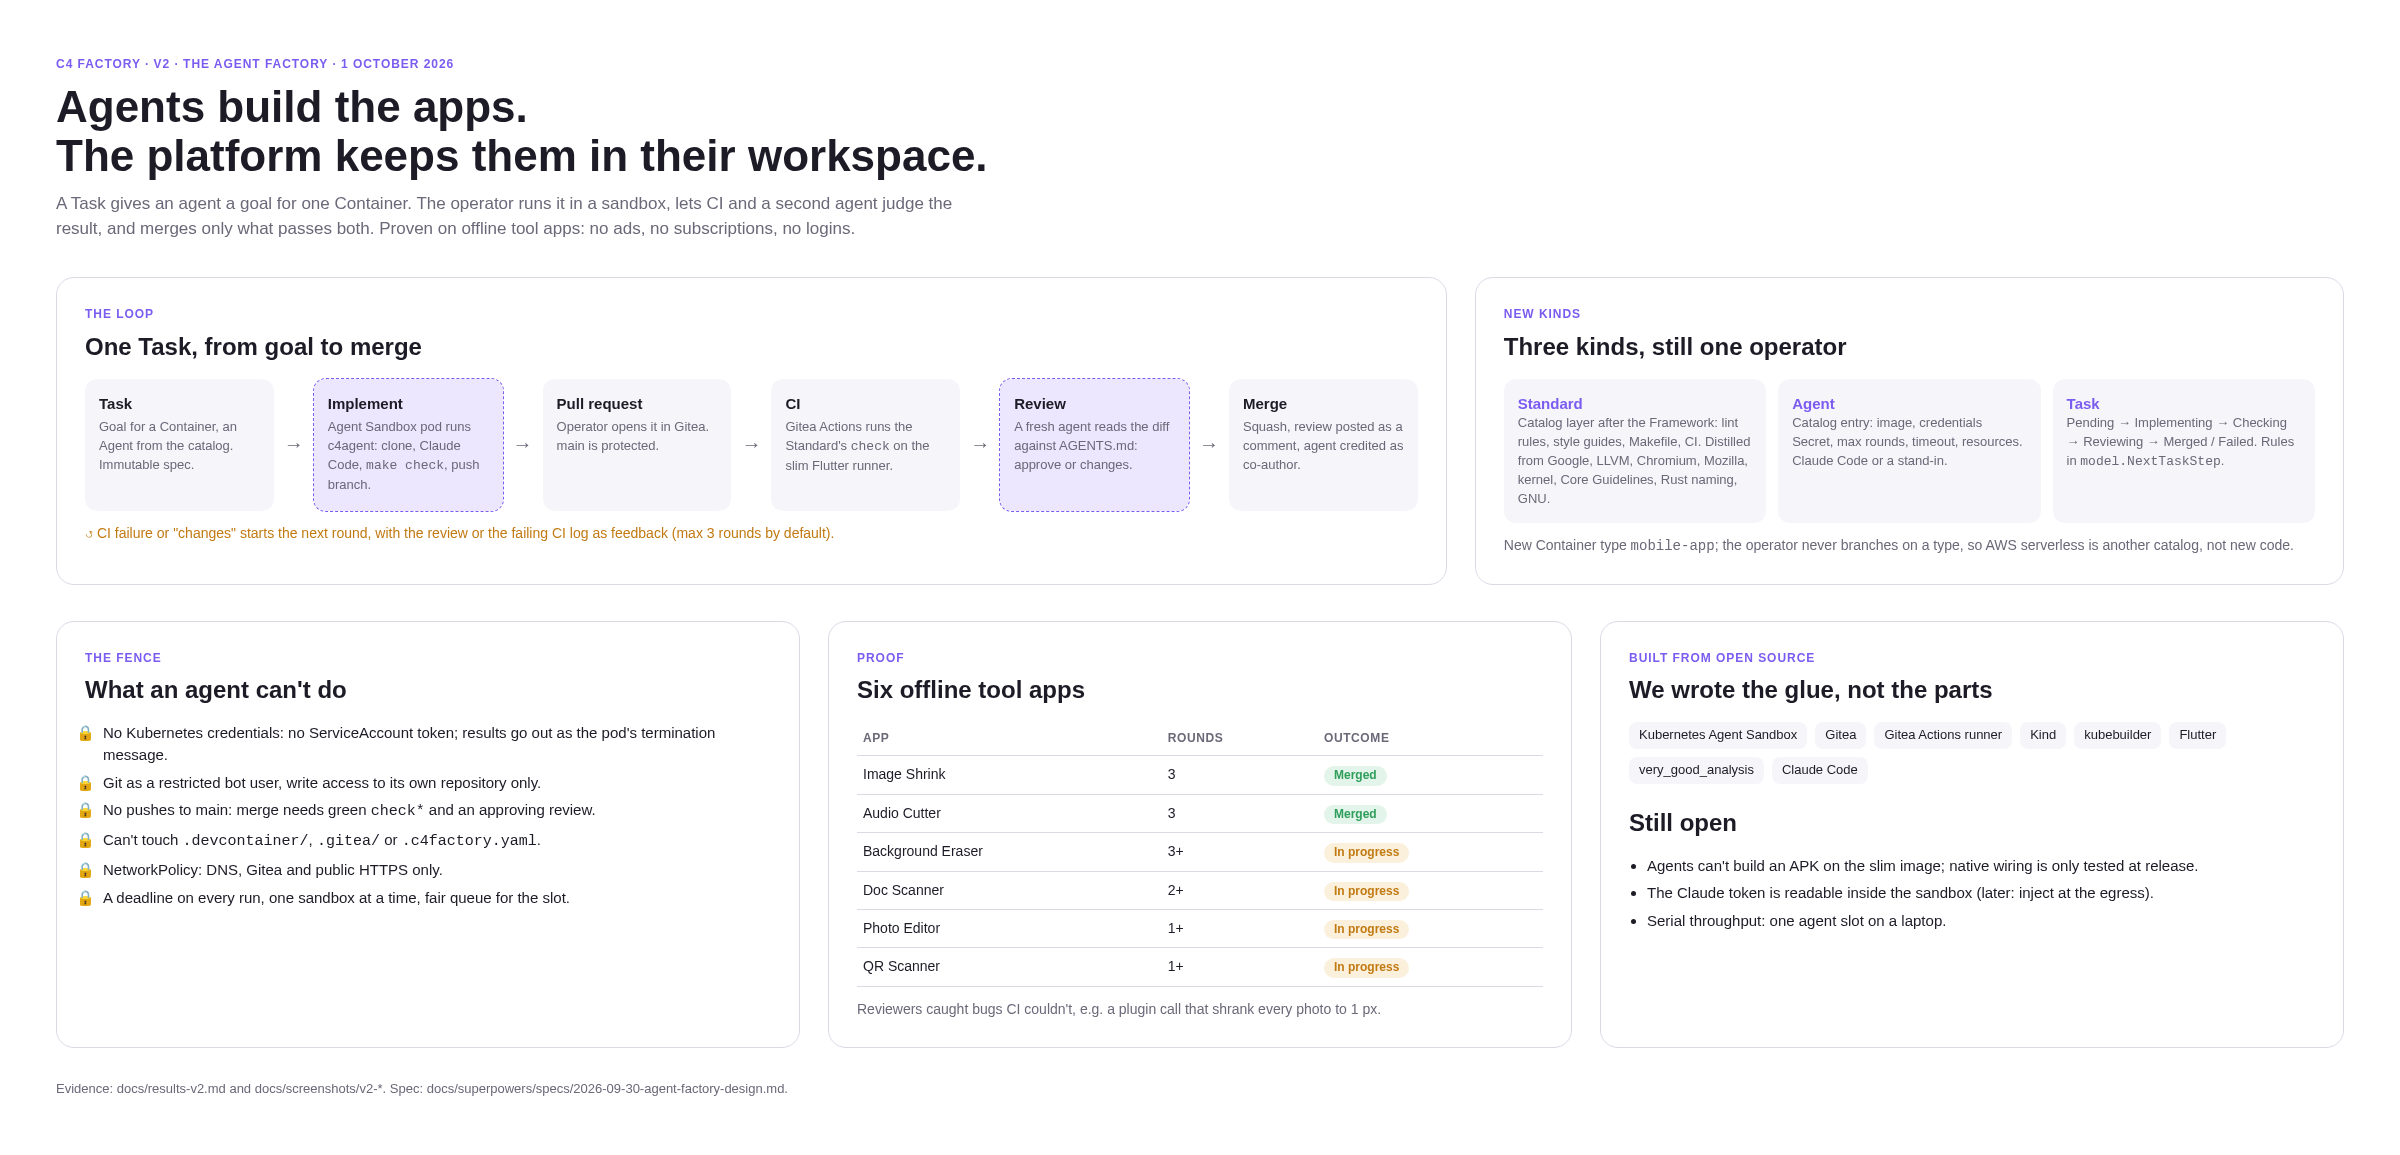
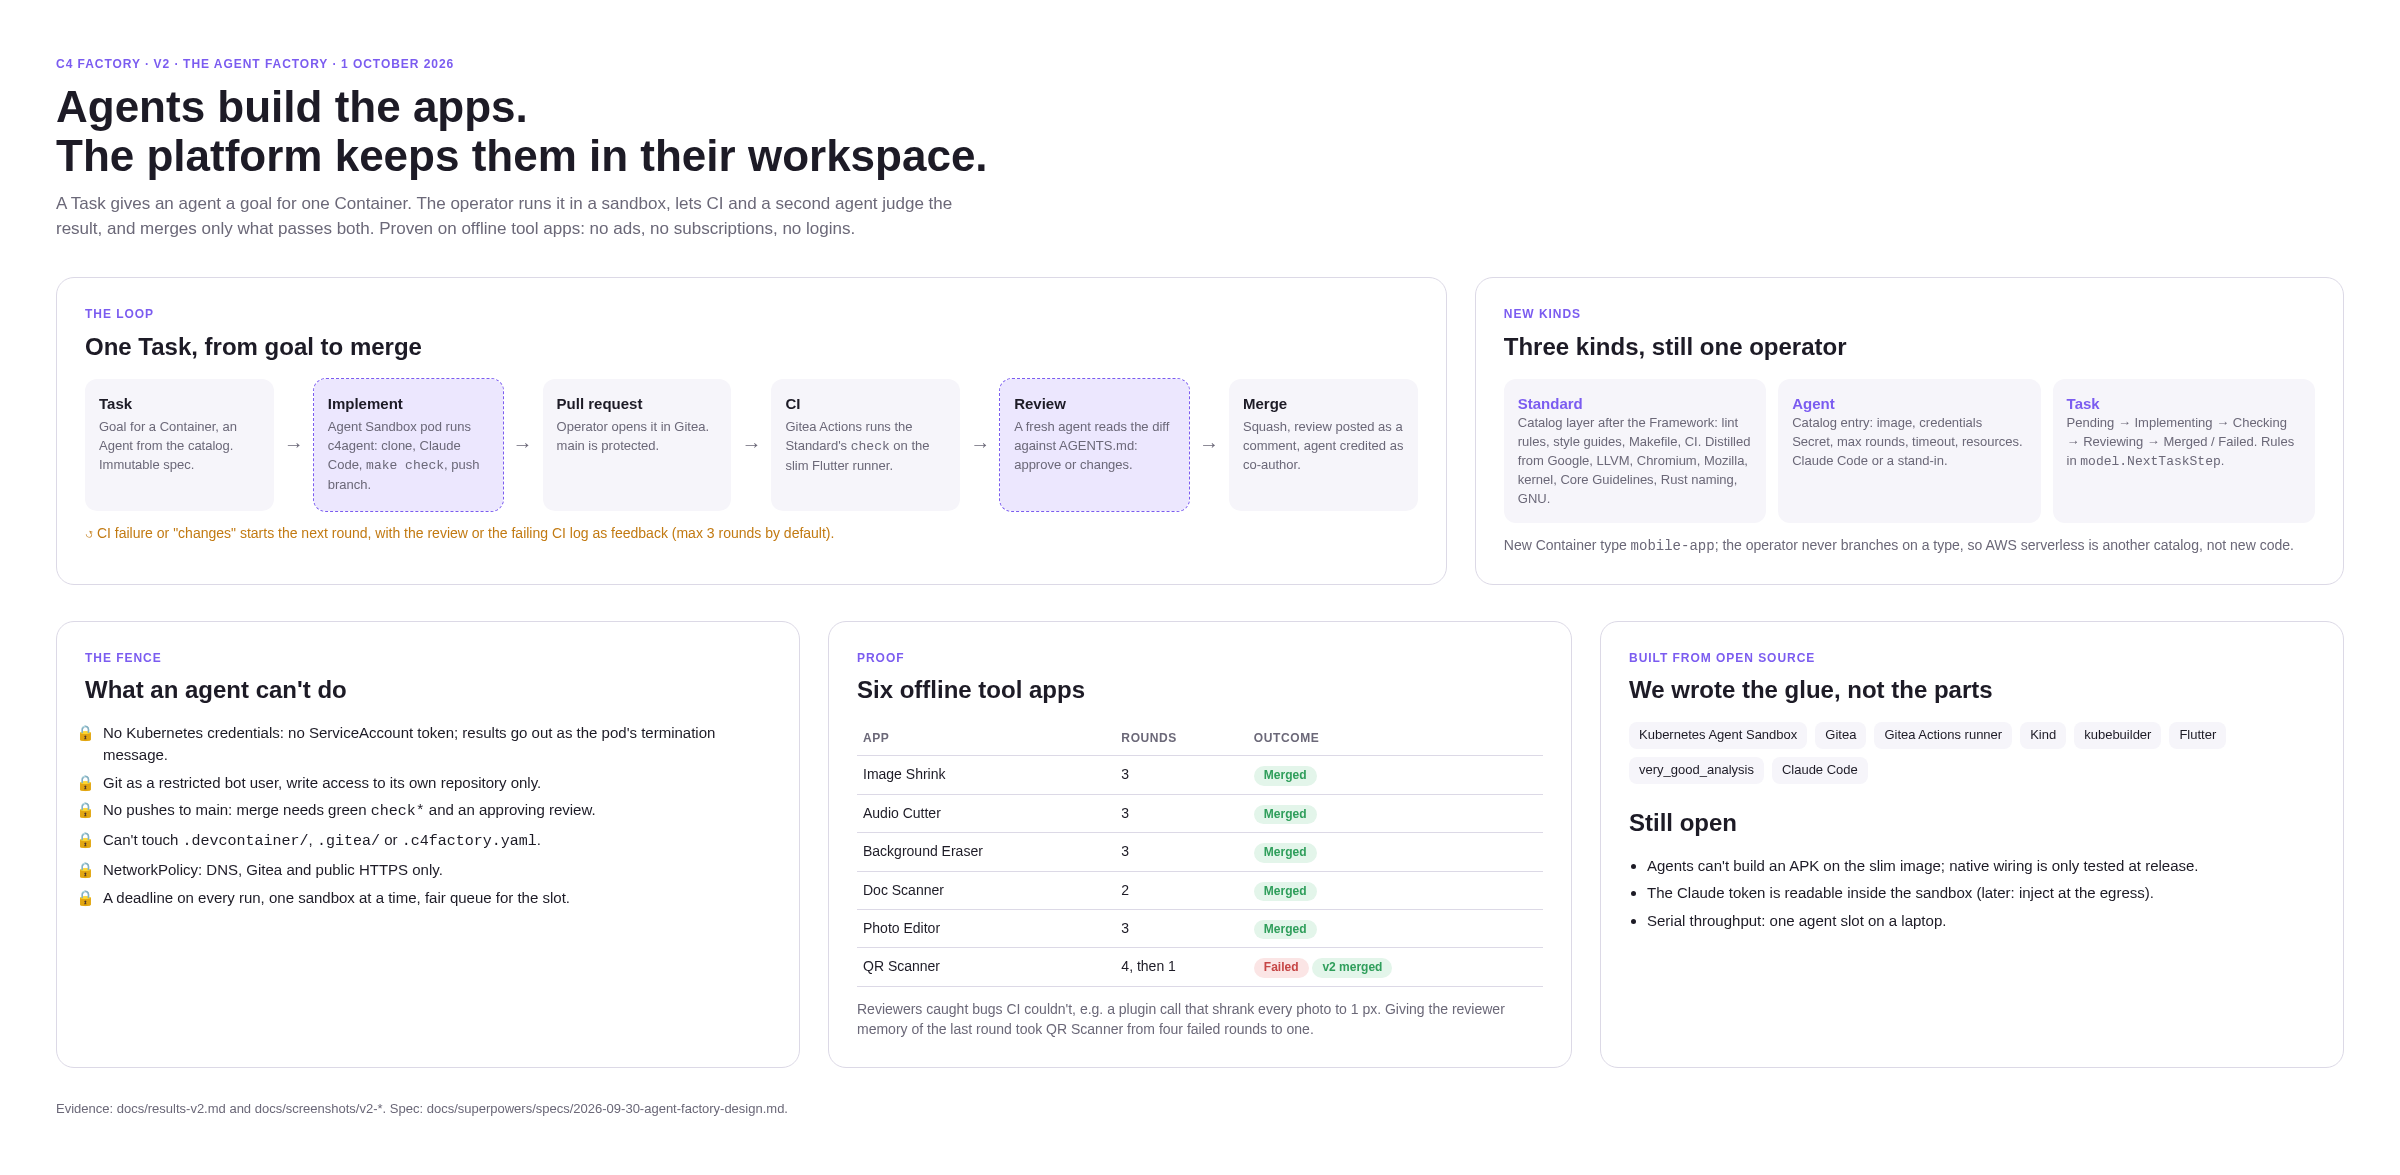
docs: all six toolbox apps merged by agents

diff --git a/docs/results-v2.md b/docs/results-v2.md
@@ -16,6 +16,7 @@ about the platform, and what changed because of it. Evidence is in
 | `photo-editor-v1` | Claude Code | 3 | Merged |
 | `qr-scanner-v1` | Claude Code | 4 (the limit in the sample) | Failed: each fresh reviewer found new points; the last round asked for an auto-backup exclusion and two style fixes |
 | `qr-scanner-v2` (same goal, converging reviewer) | Claude Code | 1 | Merged; the reviewer listed the backup exclusion as non-blocking, so it became a follow-up Task |
+| `qr-scanner-backup` (follow-up) | Claude Code | 1 | Merged |
 
 ### image-shrink-v1, round by round
 
